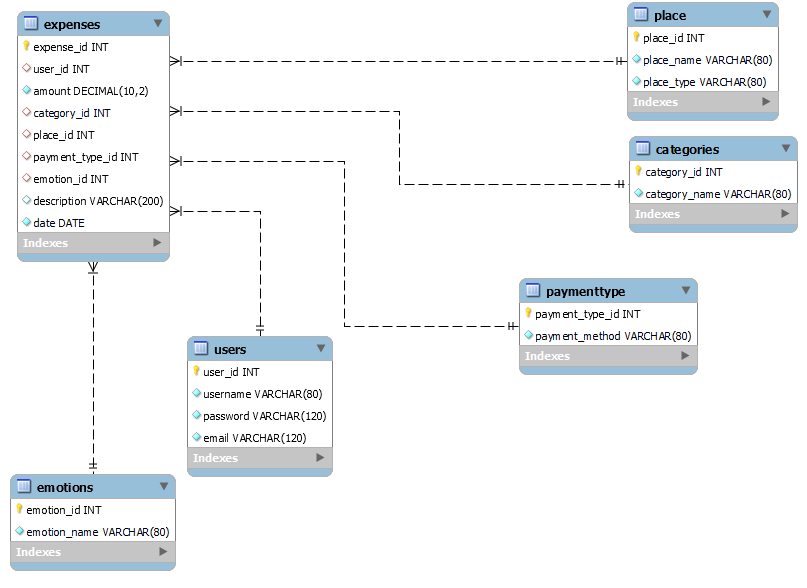
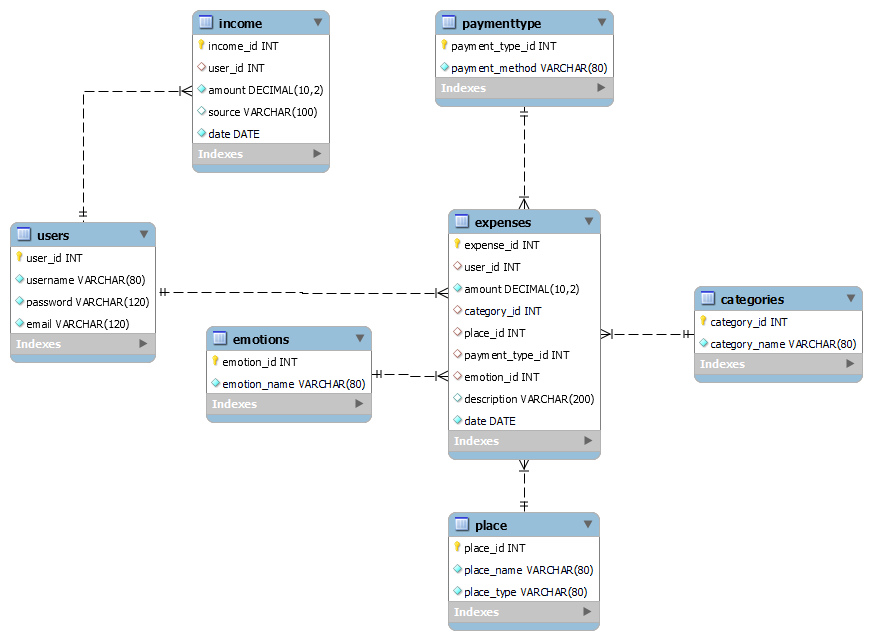
Initial commit

diff --git a/documentation instructions.md b/documentation instructions.md
@@ -1,0 +1,249 @@
+Sure, here is the documentation in Markdown format:
+
+markdown
+Copy code
+
+# Expense Tracker Database Setup and Data Analysis
+
+## Table of Contents
+
+1. [Database Schema Setup](#database-schema-setup)
+2. [Loading Data from CSV Files](#loading-data-from-csv-files)
+3. [Verifying Data Load](#verifying-data-load)
+4. [Complex SQL Queries](#complex-sql-queries)
+
+## Database Schema Setup
+
+To create the necessary tables for the Expense Tracker database, follow these steps:
+
+1. Open MySQL Workbench and connect to your MySQL server.
+2. Open a new SQL tab.
+3. Copy and paste the following schema creation script into the SQL tab.
+4. Execute the script by clicking the lightning bolt icon or pressing `Ctrl + Shift + Enter`.
+
+```sql
+-- Drop tables if they exist
+DROP TABLE IF EXISTS Expenses;
+DROP TABLE IF EXISTS Income;
+DROP TABLE IF EXISTS Users;
+DROP TABLE IF EXISTS Categories;
+DROP TABLE IF EXISTS PaymentType;
+DROP TABLE IF EXISTS Place;
+DROP TABLE IF EXISTS Emotions;
+
+-- Create Users table
+CREATE TABLE IF NOT EXISTS Users (
+    user_id INT AUTO_INCREMENT PRIMARY KEY,
+    username VARCHAR(80) NOT NULL UNIQUE,
+    password VARCHAR(120) NOT NULL,
+    email VARCHAR(120) NOT NULL UNIQUE
+);
+
+-- Create Categories table
+CREATE TABLE IF NOT EXISTS Categories (
+    category_id INT AUTO_INCREMENT PRIMARY KEY,
+    category_name VARCHAR(80) NOT NULL UNIQUE
+);
+
+-- Create PaymentType table
+CREATE TABLE IF NOT EXISTS PaymentType (
+    payment_type_id INT AUTO_INCREMENT PRIMARY KEY,
+    payment_method VARCHAR(80) NOT NULL UNIQUE
+);
+
+-- Create Place table
+CREATE TABLE IF NOT EXISTS Place (
+    place_id INT AUTO_INCREMENT PRIMARY KEY,
+    place_name VARCHAR(80) NOT NULL UNIQUE,
+    place_type VARCHAR(80) NOT NULL
+);
+
+-- Create Emotions table
+CREATE TABLE IF NOT EXISTS Emotions (
+    emotion_id INT AUTO_INCREMENT PRIMARY KEY,
+    emotion_name VARCHAR(80) NOT NULL UNIQUE
+);
+
+-- Create Income table
+CREATE TABLE IF NOT EXISTS Income (
+    income_id INT AUTO_INCREMENT PRIMARY KEY,
+    user_id INT,
+    amount DECIMAL(10, 2) NOT NULL,
+    source VARCHAR(100),
+    date DATE NOT NULL,
+    FOREIGN KEY (user_id) REFERENCES Users(user_id)
+);
+
+-- Create Expenses table
+CREATE TABLE IF NOT EXISTS Expenses (
+    expense_id INT AUTO_INCREMENT PRIMARY KEY,
+    user_id INT,
+    amount DECIMAL(10, 2) NOT NULL,
+    category_id INT,
+    place_id INT,
+    payment_type_id INT,
+    emotion_id INT,
+    description VARCHAR(200),
+    date DATE NOT NULL,
+    FOREIGN KEY (user_id) REFERENCES Users(user_id),
+    FOREIGN KEY (category_id) REFERENCES Categories(category_id),
+    FOREIGN KEY (place_id) REFERENCES Place(place_id),
+    FOREIGN KEY (payment_type_id) REFERENCES PaymentType(payment_type_id),
+    FOREIGN KEY (emotion_id) REFERENCES Emotions(emotion_id)
+);
+Loading Data from CSV Files
+To load data into the tables from CSV files, follow these steps:
+
+Ensure your CSV files are correctly formatted and saved with LF (Line Feed) line endings.
+Place your CSV files in the directory C:/ProgramData/MySQL/MySQL Server 8.0/Uploads/.
+Use the following commands to load the data into the tables:
+Truncate Tables (if necessary)
+
+SET FOREIGN_KEY_CHECKS = 0;
+TRUNCATE TABLE Income;
+TRUNCATE TABLE Expenses;
+TRUNCATE TABLE Users;
+TRUNCATE TABLE Categories;
+TRUNCATE TABLE PaymentType;
+TRUNCATE TABLE Place;
+TRUNCATE TABLE Emotions;
+SET FOREIGN_KEY_CHECKS = 1;
+
+
+Load Data Commands
+
+-- Load data into Users table
+LOAD DATA INFILE 'C:/ProgramData/MySQL/MySQL Server 8.0/Uploads/users.csv'
+INTO TABLE Users
+FIELDS TERMINATED BY ','
+ENCLOSED BY '"'
+LINES TERMINATED BY '\n'
+IGNORE 1 ROWS
+(username, password, email);
+
+-- Load data into Categories table
+LOAD DATA INFILE 'C:/ProgramData/MySQL/MySQL Server 8.0/Uploads/categories.csv'
+INTO TABLE Categories
+FIELDS TERMINATED BY ','
+ENCLOSED BY '"'
+LINES TERMINATED BY '\n'
+IGNORE 1 ROWS
+(category_name);
+
+-- Load data into PaymentType table
+LOAD DATA INFILE 'C:/ProgramData/MySQL/MySQL Server 8.0/Uploads/payment_type.csv'
+INTO TABLE PaymentType
+FIELDS TERMINATED BY ','
+ENCLOSED BY '"'
+LINES TERMINATED BY '\n'
+IGNORE 1 ROWS
+(payment_method);
+
+-- Load data into Place table
+LOAD DATA INFILE 'C:/ProgramData/MySQL/MySQL Server 8.0/Uploads/place.csv'
+INTO TABLE Place
+FIELDS TERMINATED BY ','
+ENCLOSED BY '"'
+LINES TERMINATED BY '\n'
+IGNORE 1 ROWS
+(place_name, place_type);
+
+-- Load data into Emotions table
+LOAD DATA INFILE 'C:/ProgramData/MySQL/MySQL Server 8.0/Uploads/emotions.csv'
+INTO TABLE Emotions
+FIELDS TERMINATED BY ','
+ENCLOSED BY '"'
+LINES TERMINATED BY '\n'
+IGNORE 1 ROWS
+(emotion_name);
+
+-- Load data into Income table
+LOAD DATA INFILE 'C:/ProgramData/MySQL/MySQL Server 8.0/Uploads/income.csv'
+INTO TABLE Income
+FIELDS TERMINATED BY ','
+ENCLOSED BY '"'
+LINES TERMINATED BY '\n'
+IGNORE 1 ROWS
+(user_id, amount, source, date);
+
+-- Load data into Expenses table
+LOAD DATA INFILE 'C:/ProgramData/MySQL/MySQL Server 8.0/Uploads/expenses.csv'
+INTO TABLE Expenses
+FIELDS TERMINATED BY ','
+ENCLOSED BY '"'
+LINES TERMINATED BY '\n'
+IGNORE 1 ROWS
+(user_id, amount, category_id, place_id, payment_type_id, emotion_id, description, date);
+
+
+Verifying Data Load
+To verify that the data has been loaded correctly, run the following SELECT queries for each table:
+
+-- Verify Users table
+SELECT * FROM Users;
+
+-- Verify Categories table
+SELECT * FROM Categories;
+
+-- Verify PaymentType table
+SELECT * FROM PaymentType;
+
+-- Verify Place table
+SELECT * FROM Place;
+
+-- Verify Emotions table
+SELECT * FROM Emotions;
+
+-- Verify Income table
+SELECT * FROM Income;
+
+-- Verify Expenses table
+SELECT * FROM Expenses;
+
+
+Complex SQL Queries
+Here are some complex SQL queries to analyze the data:
+
+1. Aggregating Expenses by Categories and Months
+SELECT
+    c.category_name,
+    DATE_FORMAT(e.date, '%Y-%m') AS month,
+    SUM(e.amount) AS total_expense
+FROM
+    Expenses e
+JOIN
+    Categories c ON e.category_id = c.category_id
+GROUP BY
+    c.category_name, month
+ORDER BY
+    month, c.category_name;
+
+
+2. Calculating the Average Expense per User
+SELECT
+    u.username,
+    AVG(e.amount) AS avg_expense
+FROM
+    Expenses e
+JOIN
+    Users u ON e.user_id = u.user_id
+GROUP BY
+    u.username;
+
+
+3.  Calculate the Percentage of Total Income Spent
+SELECT
+    u.username,
+    SUM(e.amount) AS total_expenses,
+    SUM(i.amount) AS total_income,
+    (SUM(e.amount) / SUM(i.amount)) * 100 AS percentage_spent
+FROM
+    Users u
+LEFT JOIN
+    Expenses e ON u.user_id = e.user_id
+LEFT JOIN
+    Income i ON u.user_id = i.user_id
+GROUP BY
+    u.username;
+
+```

diff --git a/planningscope Sprint 3.md b/planningscope Sprint 3.md
@@ -1,0 +1,38 @@
+Sprint 3 Planning Scope
+Goals
+Implement Basic Security:
+
+Add user authentication and authorization.
+Implement secure password storage.
+Document the security measures implemented.
+ACID Transactions:
+
+Implement transactions to ensure data integrity.
+Ensure that all CRUD operations are atomic, consistent, isolated, and durable.
+Document the transaction management and examples.
+Tasks
+Basic Security:
+
+Implement user authentication (e.g., login, registration) with secure password hashing (using libraries like bcrypt).
+Set up user roles and permissions for different database operations.
+Secure the application against SQL injection attacks by using prepared statements.
+Document the security implementation, including code snippets and explanations.
+ACID Transactions:
+
+Implement transactions in the MySQL database for complex operations.
+Ensure that all CRUD operations are wrapped in transactions where necessary.
+Test transactions to ensure they meet ACID properties.
+Provide examples of transaction management (e.g., transferring funds between accounts).
+Document the transaction handling with examples and explanations.
+
+Timeline
+Week 1:
+
+Implement user authentication and authorization.
+Secure password storage and protect against SQL injection.
+Begin documentation of security measures.
+Week 2:
+
+Implement ACID transactions for complex operations.
+Test and verify transaction management.
+Complete documentation for transactions and security.
